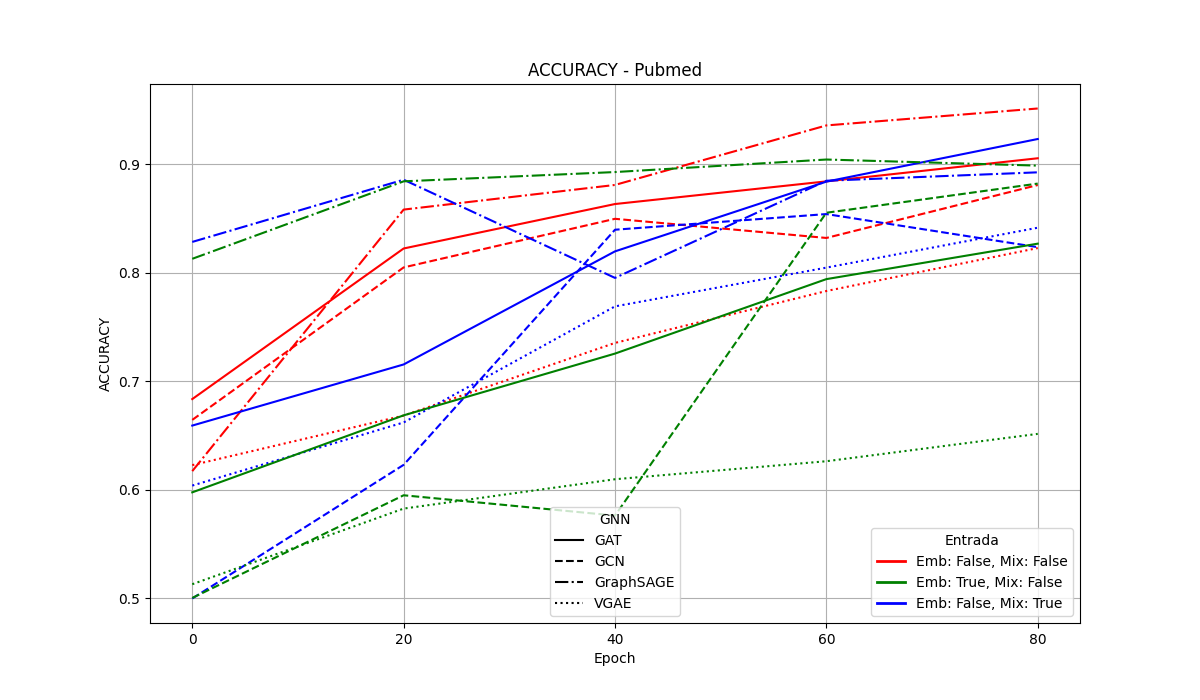
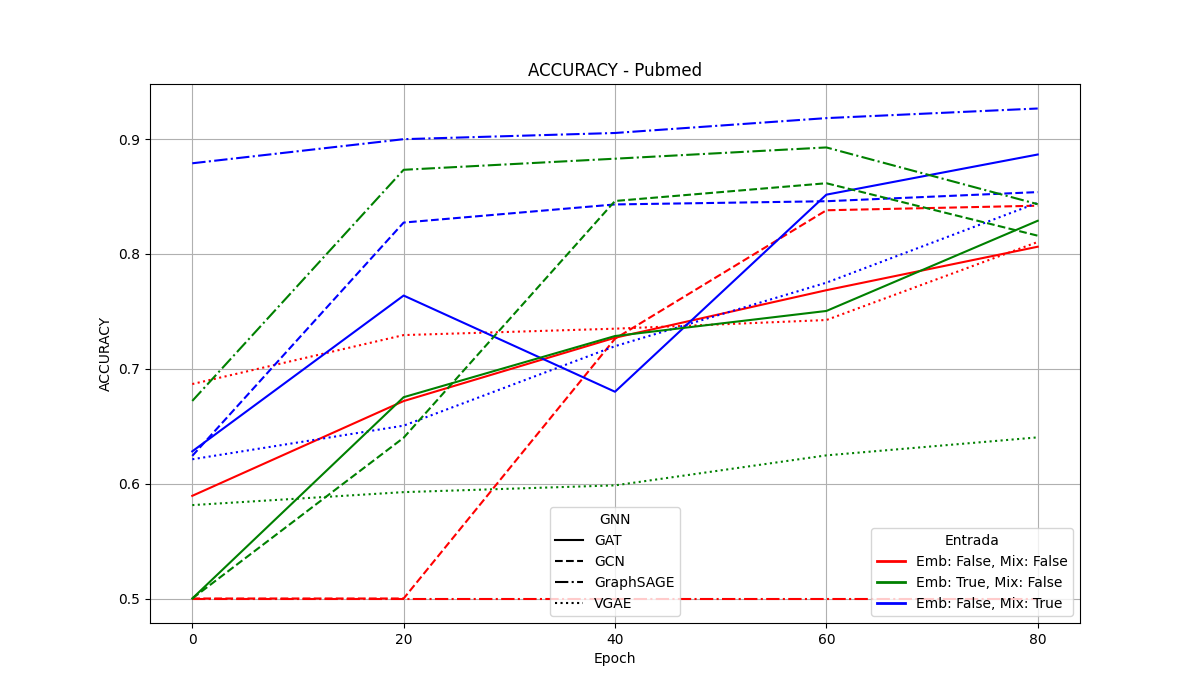
graficas

diff --git a/graphics.py b/graphics.py
@@ -15,14 +15,15 @@ METRICS = {
     "evaluation/accuracy": "accuracy",
     "evaluation/recall": "recall",
     "evaluation/f1_score": "f1_score",
-    "evaluation/auc_roc": "auc_roc"
+    "evaluation/auc_roc": "auc_roc",
+    "evaluation/precision": "precision",
 }
 
 # Estructura: results[dataset][metric][(use_emb, use_mix)][gnn_type] = (steps, values)
 results = defaultdict(lambda: defaultdict(lambda: defaultdict(dict)))
 
 folder_pattern = re.compile(
-    r'(?P<dataset>\w+)PCA_embeddings-(?P<use_emb>True|False)_mixed-(?P<use_mix>True|False)_gnn-(?P<gnn_type>\w+)_\d+'
+    r'(?P<dataset>\w+)_embeddings-(?P<use_emb>True|False)_mixed-(?P<use_mix>True|False)_gnn-(?P<gnn_type>\w+)_\d+'
 )
 
 all_gnn_types = set()
